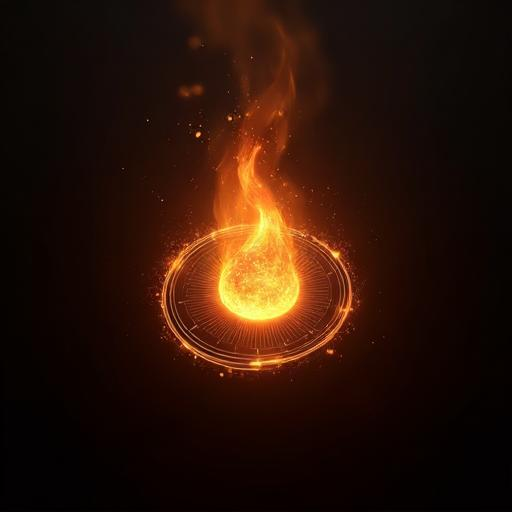
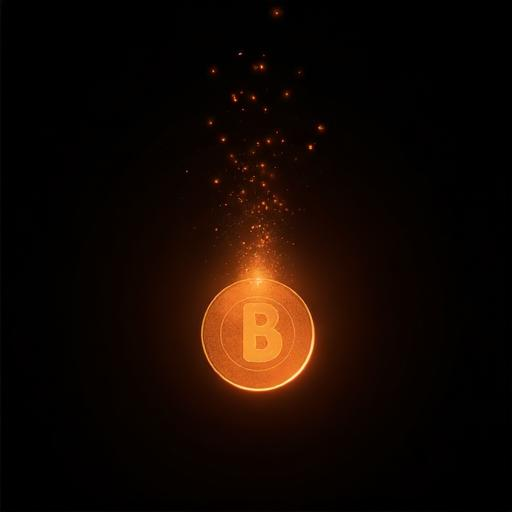
Changes

diff --git a/src/pages/Staking.tsx b/src/pages/Staking.tsx
@@ -1,6 +1,6 @@
 import { useState } from "react";
 import { motion } from "framer-motion";
-import { Flame, TrendingUp, Clock, Zap, ArrowUpRight, ArrowDownLeft } from "lucide-react";
+import { TrendingUp, Clock, Zap, ArrowUpRight, ArrowDownLeft } from "lucide-react";
 import { Tabs, TabsList, TabsTrigger, TabsContent } from "@/components/ui/tabs";
 import { Card, CardContent, CardHeader, CardTitle } from "@/components/ui/card";
 import { Input } from "@/components/ui/input";
@@ -9,6 +9,7 @@ import { Progress } from "@/components/ui/progress";
 import { useWallet } from "@/hooks/useWallet";
 import Navbar from "@/components/Navbar";
 import EmberParticles from "@/components/EmberParticles";
+import { TOKEN_LOGOS } from "@/lib/tokenAssets";
 
 const MOCK_STATS = {
   totalStaked: "4,231,560",
@@ -22,6 +23,13 @@ const Staking = () => {
   const { address, connect } = useWallet();
   const [stakeAmount, setStakeAmount] = useState("");
   const [unstakeAmount, setUnstakeAmount] = useState("");
+
+  const statCards = [
+    { label: "Total Staked", value: MOCK_STATS.totalStaked, sub: "BLAZE", logo: TOKEN_LOGOS.BLAZE, animClass: "animate-blaze-burn" },
+    { label: "Current APY", value: `${MOCK_STATS.apy}%`, sub: "annualized", icon: TrendingUp },
+    { label: "Your Staked", value: address ? MOCK_STATS.yourStaked : "—", sub: "BLAZE", icon: Clock },
+    { label: "Pending Rewards", value: address ? MOCK_STATS.rewards : "—", sub: "EMBER", logo: TOKEN_LOGOS.EMBER, animClass: "animate-ember-float" },
+  ];
 
   return (
     <div className="relative min-h-screen overflow-hidden bg-background">
@@ -48,15 +56,14 @@ const Staking = () => {
           transition={{ delay: 0.15 }}
           className="mx-auto mb-10 grid max-w-4xl grid-cols-2 gap-4 md:grid-cols-4"
         >
-          {[
-            { label: "Total Staked", value: MOCK_STATS.totalStaked, sub: "BLAZE", icon: Flame },
-            { label: "Current APY", value: `${MOCK_STATS.apy}%`, sub: "annualized", icon: TrendingUp },
-            { label: "Your Staked", value: address ? MOCK_STATS.yourStaked : "—", sub: "BLAZE", icon: Clock },
-            { label: "Pending Rewards", value: address ? MOCK_STATS.rewards : "—", sub: "EMBER", icon: Zap },
-          ].map((s, i) => (
+          {statCards.map((s, i) => (
             <Card key={i} className="border-border/30 bg-card/60 backdrop-blur-sm">
               <CardContent className="p-4 text-center">
-                <s.icon className="mx-auto mb-2 h-6 w-6 text-primary" />
+                {s.logo ? (
+                  <img src={s.logo} alt="" className={`mx-auto mb-2 h-6 w-6 rounded-full ${s.animClass || ""}`} />
+                ) : s.icon ? (
+                  <s.icon className="mx-auto mb-2 h-6 w-6 text-primary" />
+                ) : null}
                 <p className="text-xs text-muted-foreground">{s.label}</p>
                 <p className="text-xl font-bold">{s.value}</p>
                 <p className="text-xs text-muted-foreground">{s.sub}</p>
@@ -97,7 +104,7 @@ const Staking = () => {
             <Card className="border-border/50 bg-card/80 backdrop-blur-sm">
               <CardHeader>
                 <CardTitle className="flex items-center gap-2 text-lg">
-                  <Flame className="h-5 w-5 text-primary" /> Stake BLAZE
+                  <img src={TOKEN_LOGOS.BLAZE} alt="" className="h-5 w-5 rounded-full animate-blaze-burn" /> Stake BLAZE
                 </CardTitle>
               </CardHeader>
               <CardContent className="space-y-5">

diff --git a/src/pages/Buy.tsx b/src/pages/Buy.tsx
@@ -10,24 +10,25 @@ import { useWallet } from "@/hooks/useWallet";
 import Navbar from "@/components/Navbar";
 import EmberParticles from "@/components/EmberParticles";
 import PriceChart from "@/components/PriceChart";
+import { TOKEN_LOGOS } from "@/lib/tokenAssets";
 
 const TOKEN_PRICES = { BLAZE: 0.20, EQT: 5.00 };
 
-const BuyTokenCard = ({ token, color, icon: Icon, price, features }: {
-  token: string; color: string; icon: any; price: number; features: string[];
+const BuyTokenCard = ({ token, logo, price, features }: {
+  token: string; logo: string; price: number; features: string[];
 }) => {
   const { address, connect } = useWallet();
   const [amount, setAmount] = useState("");
   const cost = parseFloat(amount || "0") * price;
+
+  const animClass = token === "BLAZE" ? "animate-blaze-burn" : token === "EQT" ? "animate-eqt-breathe" : "animate-ember-float";
 
   return (
     <motion.div initial={{ opacity: 0, y: 20 }} animate={{ opacity: 1, y: 0 }} transition={{ duration: 0.5 }}>
       <Card className="border-border/50 bg-card/80 backdrop-blur-sm">
         <CardHeader>
           <CardTitle className="flex items-center gap-3">
-            <div className={`flex h-10 w-10 items-center justify-center rounded-lg ${color}`}>
-              <Icon className="h-5 w-5 text-primary-foreground" />
-            </div>
+            <img src={logo} alt={`${token} token`} className={`h-10 w-10 rounded-full ${animClass}`} />
             <div>
               <span className="text-xl font-bold">{token}</span>
               <p className="text-sm font-normal text-muted-foreground">${price.toFixed(2)} per token</p>
@@ -111,18 +112,17 @@ const Buy = () => {
         <Tabs defaultValue="blaze" className="mx-auto max-w-2xl">
           <TabsList className="mb-8 grid w-full grid-cols-2 bg-muted/50">
             <TabsTrigger value="blaze" className="data-[state=active]:bg-gradient-fire data-[state=active]:text-primary-foreground">
-              <Flame className="mr-2 h-4 w-4" /> BLAZE
+              <img src={TOKEN_LOGOS.BLAZE} alt="" className="mr-2 h-4 w-4 rounded-full" /> BLAZE
             </TabsTrigger>
             <TabsTrigger value="eqt" className="data-[state=active]:bg-gradient-fire data-[state=active]:text-primary-foreground">
-              <Shield className="mr-2 h-4 w-4" /> EQT
+              <img src={TOKEN_LOGOS.EQT} alt="" className="mr-2 h-4 w-4 rounded-full" /> EQT
             </TabsTrigger>
           </TabsList>
 
           <TabsContent value="blaze">
             <BuyTokenCard
               token="BLAZE"
-              color="bg-gradient-fire"
-              icon={Flame}
+              logo={TOKEN_LOGOS.BLAZE}
               price={TOKEN_PRICES.BLAZE}
               features={[
                 "Governance voting rights on platform decisions",
@@ -136,8 +136,7 @@ const Buy = () => {
           <TabsContent value="eqt">
             <BuyTokenCard
               token="EQT"
-              color="bg-[hsl(var(--equity))]"
-              icon={Shield}
+              logo={TOKEN_LOGOS.EQT}
               price={TOKEN_PRICES.EQT}
               features={[
                 "20% of all platform fees as quarterly dividends",

diff --git a/src/pages/Swap.tsx b/src/pages/Swap.tsx
@@ -1,6 +1,6 @@
 import { useState, useMemo } from "react";
 import { motion, AnimatePresence } from "framer-motion";
-import { ArrowDownUp, Flame, Sparkles, ArrowLeft, Zap, TrendingUp, Shield, Settings2, Clock, ArrowUpRight, ArrowDownRight, Check } from "lucide-react";
+import { ArrowDownUp, ArrowLeft, Zap, TrendingUp, Shield, Settings2, Clock, Check } from "lucide-react";
 import { Link } from "react-router-dom";
 import Navbar from "@/components/Navbar";
 import Footer from "@/components/Footer";
@@ -9,6 +9,7 @@ import { Button } from "@/components/ui/button";
 import { Input } from "@/components/ui/input";
 import { Card, CardContent, CardHeader, CardTitle } from "@/components/ui/card";
 import { useToast } from "@/hooks/use-toast";
+import { TOKEN_LOGOS } from "@/lib/tokenAssets";
 
 type Direction = "blazeToEmber" | "emberToBlaze";
 
@@ -18,8 +19,8 @@ const PROTOCOL_FEE = 0.003;
 const SLIPPAGE_OPTIONS = [0.1, 0.5, 1.0];
 
 const TOKEN_META = {
-  blaze: { name: "BLAZE", icon: Flame, color: "text-blaze", bg: "bg-blaze/10", border: "border-blaze/30" },
-  ember: { name: "EMBER", icon: Sparkles, color: "text-ember", bg: "bg-ember/10", border: "border-ember/30" },
+  blaze: { name: "BLAZE", logo: TOKEN_LOGOS.BLAZE, color: "text-blaze", bg: "bg-blaze/10", border: "border-blaze/30", animClass: "animate-blaze-burn" },
+  ember: { name: "EMBER", logo: TOKEN_LOGOS.EMBER, color: "text-ember", bg: "bg-ember/10", border: "border-ember/30", animClass: "animate-ember-float" },
 };
 
 interface SwapTx {
@@ -186,7 +187,7 @@ const Swap = () => {
                 <label className="mb-1.5 block text-xs font-medium text-muted-foreground">You send</label>
                 <div className="flex items-center gap-3">
                   <div className={`flex items-center gap-2 rounded-md border border-border/50 bg-background/60 px-3 py-2 ${fromToken.color}`}>
-                    <fromToken.icon className="h-4 w-4" />
+                    <img src={fromToken.logo} alt="" className={`h-4 w-4 rounded-full ${fromToken.animClass}`} />
                     <span className="text-sm font-semibold">{fromToken.name}</span>
                   </div>
                   <Input
@@ -216,7 +217,7 @@ const Swap = () => {
                 <label className="mb-1.5 block text-xs font-medium text-muted-foreground">You receive</label>
                 <div className="flex items-center gap-3">
                   <div className={`flex items-center gap-2 rounded-md border border-border/50 bg-background/60 px-3 py-2 ${toToken.color}`}>
-                    <toToken.icon className="h-4 w-4" />
+                    <img src={toToken.logo} alt="" className={`h-4 w-4 rounded-full ${toToken.animClass}`} />
                     <span className="text-sm font-semibold">{toToken.name}</span>
                   </div>
                   <div className="flex-1 text-right text-xl font-semibold text-foreground">

diff --git a/src/pages/Portfolio.tsx b/src/pages/Portfolio.tsx
@@ -14,6 +14,7 @@ import Navbar from "@/components/Navbar";
 import EmberParticles from "@/components/EmberParticles";
 import { useToast } from "@/hooks/use-toast";
 import EQTDividendSection from "@/components/EQTDividendSection";
+import { TOKEN_LOGOS } from "@/lib/tokenAssets";
 
 // Placeholder contract addresses — replace with real deployed addresses
 const CONTRACT_ADDRESSES: Record<string, string> = {
@@ -100,9 +101,9 @@ const Portfolio = () => {
   ];
 
   const holdings = [
-    { token: "BLAZE", icon: Flame, balance: tokenData.BLAZE.balance, staked: tokenData.BLAZE.staked, price: tokenData.BLAZE.price, change: tokenData.BLAZE.change24h, colorClass: "text-primary", bgClass: "bg-primary/10" },
-    { token: "EMBER", icon: Zap, balance: tokenData.EMBER.balance, staked: 0, price: tokenData.EMBER.price, change: tokenData.EMBER.change24h, colorClass: "text-accent", bgClass: "bg-accent/10" },
-    { token: "EQT", icon: Shield, balance: tokenData.EQT.balance, staked: 0, price: tokenData.EQT.price, change: tokenData.EQT.change24h, colorClass: "text-[hsl(var(--equity))]", bgClass: "bg-[hsl(var(--equity))/0.1]" },
+    { token: "BLAZE", logo: TOKEN_LOGOS.BLAZE, animClass: "animate-blaze-burn", balance: tokenData.BLAZE.balance, staked: tokenData.BLAZE.staked, price: tokenData.BLAZE.price, change: tokenData.BLAZE.change24h, colorClass: "text-primary", bgClass: "bg-primary/10" },
+    { token: "EMBER", logo: TOKEN_LOGOS.EMBER, animClass: "animate-ember-float", balance: tokenData.EMBER.balance, staked: 0, price: tokenData.EMBER.price, change: tokenData.EMBER.change24h, colorClass: "text-accent", bgClass: "bg-accent/10" },
+    { token: "EQT", logo: TOKEN_LOGOS.EQT, animClass: "animate-eqt-breathe", balance: tokenData.EQT.balance, staked: 0, price: tokenData.EQT.price, change: tokenData.EQT.change24h, colorClass: "text-[hsl(var(--equity))]", bgClass: "bg-[hsl(var(--equity))/0.1]" },
   ];
 
   const summaryCards = [
@@ -258,7 +259,7 @@ const Portfolio = () => {
                       <div key={h.token} className="flex items-center justify-between rounded-lg border border-border/30 bg-background/30 p-4">
                         <div className="flex items-center gap-3">
                           <div className={`flex h-9 w-9 items-center justify-center rounded-lg ${h.bgClass}`}>
-                            <h.icon className={`h-4 w-4 ${h.colorClass}`} />
+                            <img src={h.logo} alt={`${h.token} token`} className={`h-5 w-5 rounded-full ${h.animClass}`} />
                           </div>
                           <div>
                             <div className="flex items-center gap-1.5">

diff --git a/src/pages/EQTPresale.tsx b/src/pages/EQTPresale.tsx
@@ -1,6 +1,7 @@
 import { useState } from "react";
 import { motion } from "framer-motion";
 import { Shield, ArrowRight, Lock, DollarSign, Users, Vote, Calendar, TrendingUp, CheckCircle, Coins, PieChart, Clock, BadgeCheck, Loader2 } from "lucide-react";
+import { TOKEN_LOGOS } from "@/lib/tokenAssets";
 import { Card, CardContent, CardHeader, CardTitle } from "@/components/ui/card";
 import { Input } from "@/components/ui/input";
 import { Button } from "@/components/ui/button";
@@ -135,7 +136,7 @@ const EQTPresale = () => {
               <CardHeader>
                 <CardTitle className="flex items-center gap-3">
                   <div className="flex h-10 w-10 items-center justify-center rounded-lg bg-[hsl(var(--equity))]">
-                    <Shield className="h-5 w-5 text-primary-foreground" />
+                    <img src={TOKEN_LOGOS.EQT} alt="EQT token" className="h-7 w-7 rounded-full animate-eqt-breathe" />
                   </div>
                   <div>
                     <span className="text-xl font-bold">Buy EQT</span>

diff --git a/src/lib/tokenAssets.ts b/src/lib/tokenAssets.ts
@@ -1,0 +1,11 @@
+import blazeToken from "@/assets/blaze-token.png";
+import emberToken from "@/assets/ember-token.png";
+import eqtToken from "@/assets/eqt-token.png";
+
+export const TOKEN_LOGOS = {
+  BLAZE: blazeToken,
+  EMBER: emberToken,
+  EQT: eqtToken,
+} as const;
+
+export { blazeToken, emberToken, eqtToken };
